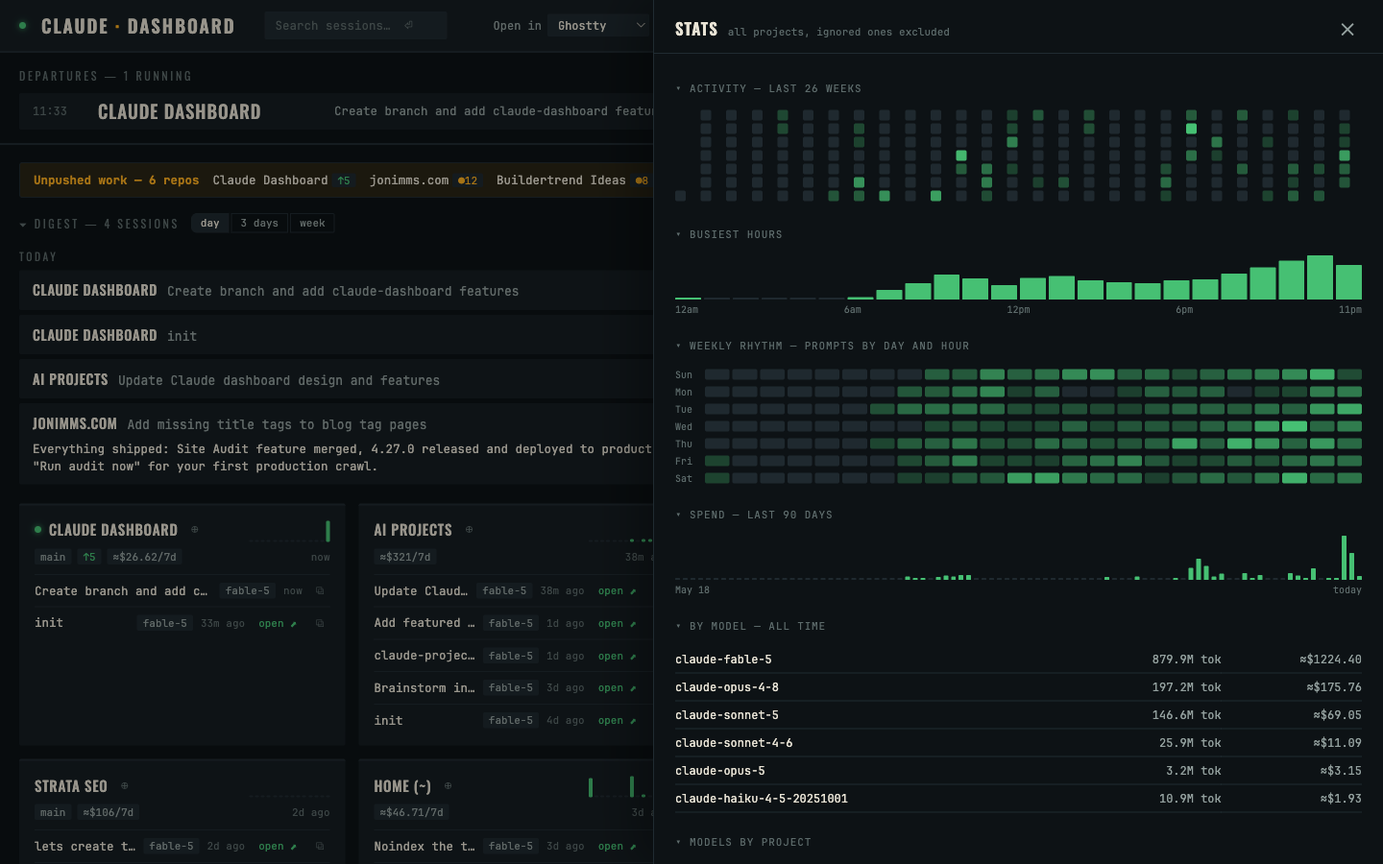
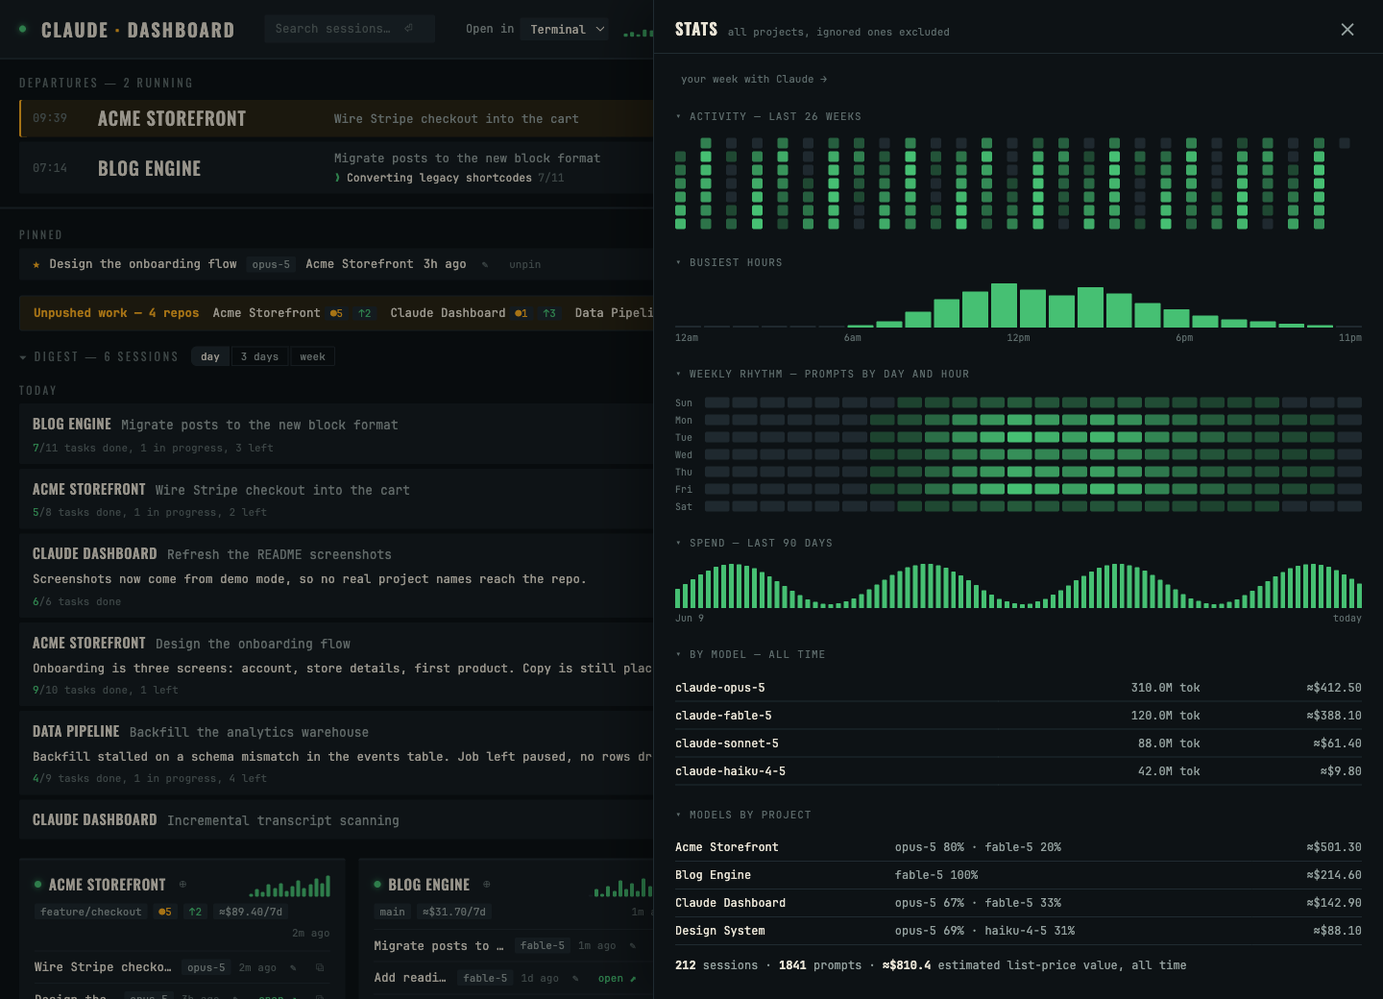
Refresh README screenshots (demo-mode data) and document the current feature set

diff --git a/lib/demo.js b/lib/demo.js
@@ -2,6 +2,8 @@
 // CLAUDE_DASH_DEMO=1: serve believable fake data instead of reading ~/.claude.
 // For screenshots, demos, and trying the dashboard without any Claude history.
 // Times are computed relative to now on every call so the board looks alive.
+// Every project here is invented — the README screenshots are generated from
+// this file so they never leak a real project name.
 
 const MIN = 60000;
 const HOUR = 3600000;
@@ -11,17 +13,41 @@ const S1 = 'demo1111-1111-4111-8111-111111111111';
 const S2 = 'demo2222-2222-4222-8222-222222222222';
 const S3 = 'demo3333-3333-4333-8333-333333333333';
 
+let seq = 0;
+const sid = () => `demo${String(++seq).padStart(4, '0')}-0000-4000-8000-000000000000`;
+
+// One session row as it appears on a project card and in the digest.
+function sess(now, o) {
+  return {
+    sessionId: o.id || sid(),
+    estCost: o.cost,
+    model: o.model,
+    title: o.title,
+    titleSource: 'ai',
+    lastPrompt: o.prompt || o.title,
+    awaySummary: o.summary || null,
+    awaySummaryAt: o.summary ? now - o.ago : null,
+    tasksSummary: o.tasks || null,
+    startedAt: now - o.ago - (o.ran || 40 * MIN),
+    lastActivityAt: now - o.ago,
+    worktree: o.worktree || null,
+    resumeCommand: 'claude --resume demo',
+  };
+}
+
 function demoState() {
+  seq = 0;
   const now = Date.now();
-  const mk = (name, path, ago, git, spark, spend) => ({
+  const mk = (name, path, ago, git, spark, spend, sessions) => ({
     path,
     name,
     lastActivityAt: now - ago,
     isLive: ago < 5 * MIN,
     git,
     spend7d: spend,
-    activity: { counts: spark },
-    sessions: [],
+    activity: { days: 14, counts: spark },
+    sessions,
+    stats: { sessionCount: sessions.length, promptCount: sessions.length * 11, lastCost: null },
   });
   return {
     generatedAt: now,
@@ -59,16 +85,72 @@ function demoState() {
     projects: [
       mk('Acme Storefront', '/demo/acme-storefront', 2 * MIN,
         { isRepo: true, branch: 'feature/checkout', dirty: 4, untracked: 1, ahead: 2, behind: 0 },
-        [2, 5, 3, 8, 6, 9, 4, 7, 11, 6, 8, 12, 9, 14], 89.4),
+        [2, 5, 3, 8, 6, 9, 4, 7, 11, 6, 8, 12, 9, 14], 89.4, [
+          sess(now, { id: S1, ago: 2 * MIN, cost: 24.6, model: 'claude-opus-5', title: 'Wire Stripe checkout into the cart',
+            tasks: { completed: 5, inProgress: 1, pending: 2 } }),
+          sess(now, { id: S3, ago: 3 * HOUR, cost: 18.2, model: 'claude-opus-5', title: 'Design the onboarding flow',
+            summary: 'Onboarding is three screens: account, store details, first product. Copy is still placeholder.',
+            tasks: { completed: 9, inProgress: 0, pending: 1 } }),
+          sess(now, { ago: 30 * HOUR, cost: 11.05, model: 'claude-fable-5', title: 'Cart totals rounding bug' }),
+          sess(now, { ago: 26 * HOUR, cost: 31.4, model: 'claude-opus-5', title: 'Split the product page into blocks' }),
+          sess(now, { ago: 3 * DAY, cost: 4.12, model: 'claude-haiku-4-5', title: 'Bump dependencies and re-run the suite' }),
+        ]),
       mk('Blog Engine', '/demo/blog-engine', 1 * MIN,
         { isRepo: true, branch: 'main', dirty: 0, untracked: 0, ahead: 0, behind: 0 },
-        [0, 3, 1, 4, 2, 6, 3, 5, 2, 7, 4, 6, 8, 5], 31.7),
+        [0, 3, 1, 4, 2, 6, 3, 5, 2, 7, 4, 6, 8, 5], 31.7, [
+          sess(now, { id: S2, ago: 1 * MIN, cost: 12.85, model: 'claude-fable-5', title: 'Migrate posts to the new block format',
+            tasks: { completed: 7, inProgress: 1, pending: 3 } }),
+          sess(now, { ago: 28 * HOUR, cost: 6.4, model: 'claude-fable-5', title: 'Add reading time to post templates',
+            summary: 'Reading time ships as a template part, cached with the post. Tests cover the empty-post case.' }),
+          sess(now, { ago: 2 * DAY, cost: 8.9, model: 'claude-sonnet-5', title: 'Fix the RSS feed date format', worktree: 'rss-fix' }),
+          sess(now, { ago: 4 * DAY, cost: 3.55, model: 'claude-haiku-4-5', title: 'Tidy the editor stylesheet' }),
+        ]),
+      mk('Claude Dashboard', '/demo/claude-dashboard', 38 * MIN,
+        { isRepo: true, branch: 'main', dirty: 1, untracked: 0, ahead: 3, behind: 0 },
+        [1, 4, 2, 6, 5, 3, 7, 9, 4, 8, 6, 10, 7, 9], 42.6, [
+          sess(now, { ago: 38 * MIN, cost: 14.2, model: 'claude-opus-5', title: 'Refresh the README screenshots',
+            summary: 'Screenshots now come from demo mode, so no real project names reach the repo.',
+            tasks: { completed: 6, inProgress: 0, pending: 0 } }),
+          sess(now, { ago: 6 * HOUR, cost: 9.8, model: 'claude-fable-5', title: 'Incremental transcript scanning' }),
+          sess(now, { ago: 2 * DAY, cost: 18.6, model: 'claude-opus-5', title: 'Add the command palette' }),
+        ]),
       mk('Data Pipeline', '/demo/data-pipeline', 5 * HOUR,
         { isRepo: true, branch: 'main', dirty: 2, untracked: 0, ahead: 1, behind: 0 },
-        [1, 0, 2, 1, 3, 0, 2, 4, 1, 3, 2, 0, 5, 2], 18.2),
+        [1, 0, 2, 1, 3, 0, 2, 4, 1, 3, 2, 0, 5, 2], 18.2, [
+          sess(now, { ago: 5 * HOUR, cost: 9.15, model: 'claude-opus-5', title: 'Backfill the analytics warehouse',
+            summary: 'Backfill stalled on a schema mismatch in the events table. Job left paused, no rows dropped.',
+            tasks: { completed: 4, inProgress: 1, pending: 4 } }),
+          sess(now, { ago: 30 * HOUR, cost: 5.7, model: 'claude-sonnet-5', title: 'Retry logic for the nightly job' }),
+          sess(now, { ago: 5 * DAY, cost: 3.35, model: 'claude-haiku-4-5', title: 'Document the ingest schema' }),
+        ]),
+      mk('Design System', '/demo/design-system', 27 * HOUR,
+        { isRepo: true, branch: 'tokens', dirty: 0, untracked: 3, ahead: 0, behind: 1 },
+        [3, 2, 4, 1, 5, 2, 3, 6, 2, 4, 3, 5, 1, 4], 26.9, [
+          sess(now, { ago: 27 * HOUR, cost: 16.4, model: 'claude-opus-5', title: 'Colour tokens for dark mode' }),
+          sess(now, { ago: 4 * DAY, cost: 10.5, model: 'claude-fable-5', title: 'Rewrite the button component docs' }),
+        ]),
+      mk('Internal Tools', '/demo/internal-tools', 2 * DAY,
+        { isRepo: true, branch: 'main', dirty: 0, untracked: 0, ahead: 0, behind: 0 },
+        [0, 1, 0, 2, 1, 0, 3, 1, 0, 2, 1, 1, 0, 2], 12.4, [
+          sess(now, { ago: 2 * DAY, cost: 7.2, model: 'claude-sonnet-5', title: 'Rota export as CSV' }),
+          sess(now, { ago: 6 * DAY, cost: 5.2, model: 'claude-haiku-4-5', title: 'Fix the login redirect loop' }),
+        ]),
+      mk('Marketing Site', '/demo/marketing-site', 4 * DAY,
+        { isRepo: true, branch: 'main', dirty: 0, untracked: 0, ahead: 0, behind: 0 },
+        [2, 0, 1, 0, 3, 1, 0, 0, 2, 1, 0, 1, 0, 0], 9.6, [
+          sess(now, { ago: 4 * DAY, cost: 6.1, model: 'claude-fable-5', title: 'Rebuild the pricing page' }),
+          sess(now, { ago: 8 * DAY, cost: 3.5, model: 'claude-haiku-4-5', title: 'Compress the hero images' }),
+        ]),
       mk('Dotfiles', '/demo/dotfiles', 3 * DAY,
         { isRepo: true, branch: 'main', dirty: 0, untracked: 0, ahead: 0, behind: 0 },
-        [0, 0, 1, 0, 0, 2, 0, 1, 0, 0, 1, 0, 0, 1], 2.1),
+        [0, 0, 1, 0, 0, 2, 0, 1, 0, 0, 1, 0, 0, 1], 2.1, [
+          sess(now, { ago: 3 * DAY, cost: 2.1, model: 'claude-haiku-4-5', title: 'Move shell aliases into a module' }),
+        ]),
+      mk('Legacy Importer', '/demo/legacy-importer', 96 * DAY,
+        { isRepo: true, branch: 'main', dirty: 0, untracked: 0, ahead: 0, behind: 0 },
+        [0, 0, 0, 0, 0, 0, 0, 0, 0, 0, 0, 0, 0, 0], 0, [
+          sess(now, { ago: 96 * DAY, cost: 4.4, model: 'claude-sonnet-5', title: 'One-off CSV import for the old CRM' }),
+        ]),
     ],
     errors: [],
   };
@@ -105,7 +187,9 @@ function demoStats() {
       sessions: 18, prompts: 84, cost: 143.2,
       projects: [
         { name: 'Acme Storefront', cost: 89.4 },
+        { name: 'Claude Dashboard', cost: 42.6 },
         { name: 'Blog Engine', cost: 31.7 },
+        { name: 'Design System', cost: 26.9 },
         { name: 'Data Pipeline', cost: 18.2 },
       ],
       models: ['claude-opus-5', 'claude-fable-5', 'claude-haiku-4-5'],
@@ -115,34 +199,67 @@ function demoStats() {
     byModel: {
       'claude-opus-5': { tokens: 310e6, cost: 412.5 },
       'claude-fable-5': { tokens: 120e6, cost: 388.1 },
+      'claude-sonnet-5': { tokens: 88e6, cost: 61.4 },
       'claude-haiku-4-5': { tokens: 42e6, cost: 9.8 },
     },
     perProject: [
       { name: 'Acme Storefront', total: 501.3, models: { 'claude-opus-5': 402.2, 'claude-fable-5': 99.1 } },
       { name: 'Blog Engine', total: 214.6, models: { 'claude-fable-5': 214.6 } },
+      { name: 'Claude Dashboard', total: 142.9, models: { 'claude-opus-5': 96.4, 'claude-fable-5': 46.5 } },
+      { name: 'Design System', total: 88.1, models: { 'claude-opus-5': 61.2, 'claude-haiku-4-5': 26.9 } },
     ],
     totals: { sessions: 212, prompts: 1841, cost: 810.4 },
   };
 }
 
-function demoSession() {
+// `after` mirrors the live-follow poll: once the viewer has the canned
+// transcript there is nothing new, so return an empty tail instead of
+// re-sending every event.
+function demoSession(id, after) {
   const now = Date.now();
+  if (id === S2) return blogSession(now, after);
   return {
     sessionId: S1,
     title: 'Wire Stripe checkout into the cart',
     projectName: 'Acme Storefront',
     truncatedTurns: 0,
-    nextOffset: 0,
-    events: [
+    nextOffset: 1,
+    events: after ? [] : [
       { kind: 'user', ts: now - 47 * MIN, text: 'Add Stripe checkout to the cart page. Keep the guest flow working.' },
-      { kind: 'assistant', ts: now - 46 * MIN, text: "I'll start with the payment intent endpoint, then wire the cart button to it." },
+      { kind: 'assistant', ts: now - 46 * MIN, text: "I'll start with the payment intent endpoint, then wire the cart button to it.\n\nPlan:\n\n1. `POST /api/checkout` creating the intent server-side\n2. Cart button calls it and redirects to the hosted page\n3. Webhook marks the order paid\n\nGuest carts already carry a session id, so nothing changes for signed-out users." },
       { kind: 'tool', ts: now - 45 * MIN, name: 'Read', input: 'src/cart/CartPage.tsx' },
+      { kind: 'tool', ts: now - 45 * MIN, name: 'Grep', input: 'createPaymentIntent' },
       { kind: 'tool', ts: now - 44 * MIN, name: 'Edit', input: 'src/api/checkout.ts' },
-      { kind: 'assistant', ts: now - 40 * MIN, text: 'Endpoint is in with tests. The cart button now creates a payment intent and redirects.' },
+      { kind: 'tool', ts: now - 43 * MIN, name: 'Bash', input: 'npm test -- checkout' },
+      { kind: 'assistant', ts: now - 40 * MIN, text: 'Endpoint is in with tests. The cart button now creates a payment intent and redirects.\n\n```ts\nexport async function createCheckout(cart: Cart) {\n  const intent = await stripe.paymentIntents.create({\n    amount: totalInMinorUnits(cart),\n    currency: cart.currency,\n    metadata: { cartId: cart.id },\n  });\n  return intent.client_secret;\n}\n```\n\nAll 14 checkout tests pass.' },
+      { kind: 'note', ts: now - 39 * MIN, text: 'Checkout endpoint merged with tests. Guest flow untouched. Next: the wallet buttons.' },
       { kind: 'user', ts: now - 12 * MIN, text: 'Nice. What about Apple Pay?' },
-      { kind: 'assistant', ts: now - 5 * MIN, text: 'Two options: Stripe Payment Request Button (fastest) or a native integration. Which payment provider should checkout use for the wallet flow?' },
+      { kind: 'tool', ts: now - 11 * MIN, name: 'Read', input: 'src/cart/PaymentButtons.tsx' },
+      { kind: 'assistant', ts: now - 5 * MIN, text: 'Two options: Stripe Payment Request Button (fastest — one component, handles Apple Pay and Google Pay together) or a native integration per wallet.\n\nThe Payment Request Button reuses the intent we already create, so it is roughly an afternoon. Native gets you more control over the sheet and costs a week.\n\nWhich payment provider should checkout use for the wallet flow?' },
+    ],
+  };
+}
+
+function blogSession(now, after) {
+  return {
+    sessionId: S2,
+    title: 'Migrate posts to the new block format',
+    projectName: 'Blog Engine',
+    truncatedTurns: 0,
+    nextOffset: 1,
+    events: after ? [] : [
+      { kind: 'user', ts: now - 3 * HOUR, text: 'Convert the legacy shortcodes in old posts to real blocks. Do it post by post so we can stop halfway.' },
+      { kind: 'assistant', ts: now - 3 * HOUR + 2 * MIN, text: 'Starting with an inventory of which shortcodes actually appear, then a converter per shortcode. Nothing is written until a post round-trips cleanly.' },
+      { kind: 'tool', ts: now - 2 * HOUR - 50 * MIN, name: 'Grep', input: '\\[[a-z_]+' },
+      { kind: 'tool', ts: now - 2 * HOUR - 44 * MIN, name: 'Write', input: 'scripts/convert-shortcodes.mjs' },
+      { kind: 'assistant', ts: now - 2 * HOUR - 10 * MIN, text: 'Six shortcodes cover 94% of posts: `gallery`, `caption`, `pullquote`, `embed`, `code`, `columns`. The long tail is 11 posts I will flag rather than guess at.' },
+      { kind: 'tool', ts: now - 90 * MIN, name: 'Bash', input: 'node scripts/convert-shortcodes.mjs --dry-run' },
+      { kind: 'assistant', ts: now - 80 * MIN, text: 'Dry run over 412 posts: 401 convert cleanly, 11 need a look. Writing the converted content now, one post per transaction.' },
+      { kind: 'note', ts: now - 40 * MIN, text: 'Converter written and dry-run clean. Applying to posts in batches of 25.' },
+      { kind: 'tool', ts: now - 4 * MIN, name: 'Bash', input: 'node scripts/convert-shortcodes.mjs --apply --batch 25' },
     ],
   };
 }
 
 module.exports = { demoState, demoStats, demoSession };
+

diff --git a/server.js b/server.js
@@ -106,7 +106,10 @@ const server = http.createServer((req, res) => {
     if (url === '/api/state') return json(res, 200, demoState());
     if (url === '/api/health') return json(res, 200, { ok: true, demo: true, version: VERSION });
     if (url === '/api/stats') return json(res, 200, demoStats());
-    if (url === '/api/session') return json(res, 200, demoSession());
+    if (url === '/api/session') {
+      const q = new URL(req.url, 'http://localhost').searchParams;
+      return json(res, 200, demoSession(q.get('id'), q.get('after')));
+    }
     if (url === '/api/search') return json(res, 200, { q: '', prompts: [], titles: [], transcripts: null });
     if (url === '/api/project') {
       return json(res, 200, {

diff --git a/README.md b/README.md
@@ -2,11 +2,13 @@
 
 A local, zero-dependency dashboard for all your [Claude Code](https://claude.com/claude-code) projects. Live sessions pinned at the top — including whether one is waiting on your input — with a card per project below: recent sessions, git status, a 14-day activity sparkline, and one-click resume commands.
 
-Everything is read from local files under `~/.claude`, and it never writes to Claude's data — read-only. No API keys to configure. The only automatic network call is to Anthropic's own usage API for your quota meters, authenticated with the Keychain credentials Claude Code already holds (kept in memory, toggleable in settings). Plain Node.js (which Claude Code already requires), zero npm dependencies, macOS.
+Everything is read from local files under `~/.claude`, and it never writes to Claude's data — read-only. No API keys to configure. The only automatic network call is to Anthropic's own usage API for your quota meters, authenticated with the Keychain credentials Claude Code already holds (kept in memory, toggleable in settings). Plain Node.js (which Claude Code already requires), zero npm dependencies. macOS first, Linux supported, Windows experimental.
 
 **Requirements:** macOS or Linux (or Windows, experimental — see below), Node.js ≥ 18, Claude Code.
 
-![Claude Dashboard, dark mode — live sessions, unpushed-work strip, and the daily digest](docs/screenshots/dashboard-dark.png)
+![Claude Dashboard, dark mode — live sessions, the pinned strip, unpushed work, and today's digest](docs/screenshots/dashboard-dark.png)
+
+*Every screenshot here is demo data (`CLAUDE_DASH_DEMO=1`) — the projects are invented.*
 
 ## Try it in one command
 
@@ -74,15 +76,23 @@ If something looks off, the log is at `~/Library/Logs/claude-dashboard.log`. To 
 ## What you're looking at
 
 - **Departures** — every live `claude` CLI session as a row on the board: start time, project, current task, model, elapsed time, and a split-flap status cell. The cell flips to an amber **needs you** when a session is waiting on your input — readable from across the room.
+- **Mission Control** — the `▦` button in the header (or `⌘K` → Mission Control) tiles every live session side by side, each pane following its own transcript. One screen for "what is everything doing right now".
+- **Pinned** — `☆ pin` on any transcript sticks that session to a strip under the departures board, so the thing you care about stays in view whether it's running or not.
 - **Digest** — what happened across every project, grouped by day. Each entry shows the session's recap (Claude's own "away summary" where one exists — click to expand), how many tasks it completed, and an open button. Switch the window between day / 3 days / week; collapses out of the way and remembers your choice.
 - **Project cards** — sorted by last activity. Branch chip, `●n` uncommitted changes, `↑n` unpushed commits. The sparkline is prompts per day for the last two weeks. Each session row has an `open ⬈` button that resumes the session in your terminal (new window, right directory) or imports it into the Claude desktop app when it's installed — the **Open in** selector in the header names whichever terminal you've configured (auto-detected on first run). The `⧉` button copies the `claude --resume` command instead.
-- **Header meters** — your plan and rate-limit tier (Free/Pro/Max/Enterprise/API, detected from Claude Code's local account cache), live session and weekly usage from Anthropic's usage API via your existing Claude Code sign-in, plus extra-usage spend. First run may show one macOS Keychain prompt — click Always Allow.
-![Transcript viewer live-following a running session — this one shows the session that built the dashboard](docs/screenshots/transcript.png)
+- **Header meters** — your plan and rate-limit tier (Free/Pro/Max/Enterprise/API, detected from Claude Code's local account cache), live session and weekly usage from Anthropic's usage API via your existing Claude Code sign-in, plus extra-usage spend. Set a **weekly budget** in settings and a third meter tracks estimated spend against it, with one alert each at 75 / 90 / 100%. First run may show one macOS Keychain prompt — click Always Allow.
+
+![Mission Control — every live session tiled side by side, each pane following its own transcript](docs/screenshots/mission-control.png)
+
+![Transcript viewer live-following a running session — prompts, replies as markdown, tool calls as one-liners](docs/screenshots/transcript.png)
 
 - **Transcripts** — click any session title (cards, digest, search results, project drawer) to read the conversation: your prompts, Claude's replies rendered as markdown, tool calls as compact one-liners, and away-summaries highlighted. Long sessions show the newest ~1200 events. **Running sessions follow live** — a `● live` badge appears, new turns stream in every few seconds, and the view sticks to the bottom unless you've scrolled up to read.
-- **Search** — the header box searches every prompt you've ever sent plus all session titles (Enter to run, 2+ characters). Narrow with `project:name` or `since:7d` / `since:2026-08-01`. Clicking a prompt result opens the transcript scrolled to the matching turn.
+- **Search** — the header box searches every prompt you've ever sent plus all session titles (Enter to run, 2+ characters). Narrow with `project:name` or `since:7d` / `since:2026-08-01`. Clicking a prompt result opens the transcript scrolled to the matching turn. If the answer isn't in a prompt, **search inside full transcripts** runs the same query across the conversation bodies — slower, so it's a second click rather than the default.
 - **Command palette** — `⌘K` from anywhere: fuzzy-jump to any project or session, watch a live session, start a new one, open settings or stats. Arrow keys + Enter.
 - **Stats** — click the weekly bar chart in the header: a 26-week activity heatmap, your busiest hours, a weekly-rhythm grid (prompts by day of week and hour), estimated spend per day for the last 90 days, and an all-time per-model token/cost breakdown. The daily spend history is computed from your existing transcripts, so it's full from the first run.
+- **Your week with Claude** — a 7-day report (`⌘K`, or the button at the top of stats): sessions, prompts, estimated spend against your budget, busiest day and hour, models used, and how long you typically take to answer a question. Exports as markdown.
+- **Day timeline** — `⌘K` → Day timeline: the last 24 hours as one lane per project, with amber ticks where a session needed you.
+- **Catch-up** — the `🔔` in the header keeps every notification the server has fired since it started, with an unread count. Useful after a morning away from the desk.
 - **Export** — any transcript downloads as clean markdown via the `export ⇩` button.
 - **New session** — the `⊕` button on a project card opens a fresh terminal window in that project running `claude`.
 - **Cost trend** — the small bar chart in the header is estimated cost per week for the last 8 weeks (hover for numbers). Costs include subagent tokens.
@@ -90,7 +100,8 @@ If something looks off, the log is at `~/Library/Logs/claude-dashboard.log`. To 
 - **Claude.ai chats** — import the official export from claude.ai (Settings → Privacy → Export data, then feed `conversations.json` to ⚙ settings here) and your chats become browsable (`⌘K` → Claude.ai chats) and full-text searchable next to your coding sessions. Stored slimmed in your local config dir, gitignored, never uploaded anywhere.
 
 ![Stats view: activity heatmap, busiest hours, weekly rhythm, 90-day spend, and per-model cost breakdowns](docs/screenshots/stats.png)
-- **Project details** — click any project's name for a slide-over with its full session list, rendered CLAUDE.md, per-project memory files, skills/agents/commands from `.claude/`, and settings (permissions, MCP servers, allowed tools). Read-only; also a quick audit of which projects are missing instructions or memory. Esc closes.
+
+- **Project details** — click any project's name for a slide-over with its full session list, recent git commits, rendered CLAUDE.md, per-project memory files, skills/agents/commands from `.claude/`, and settings (permissions, MCP servers, allowed tools). Read-only; also a quick audit of which projects are missing instructions or memory. Esc closes.
 - **Unpushed work strip** — an amber band listing every repo with uncommitted changes (`●n`) or unpushed commits (`↑n`), sorted by recent activity. Disappears when everything's clean.
 - **Dormant** — projects with no activity for 60+ days, tucked away at the bottom.
 - Worktree sessions (`.claude/worktrees/…`) are folded into their parent project and badged `⎇`.
@@ -112,8 +123,12 @@ The ⚙ gear in the header opens settings — no JSON editing required:
 
 - **Notifications** on/off (writes `config.json`); per-project mute lives on each project's slide-over
 - **Terminal** for open/new-session buttons: Ghostty, iTerm2, or Terminal.app, auto-detected (`config.json`)
-- **Rename any project** (writes `names.json`) or **hide it** and its whole subtree (writes `ignore.json`), with an unhide list below
+- **Claude desktop app**: lets `open ⬈` hand a session to the Claude app instead of a terminal
+- **Usage meters** on/off — this is the switch for the one automatic network call
 - **Theme**: Departures board (follows system light/dark), Phosphor, Amber CRT, Midnight, or Newsprint (`config.json`)
+- **Weekly budget** in dollars — drives the header meter and the 75 / 90 / 100% alerts; `0` turns it off
+- **Rename any project** (writes `names.json`) or **hide it** and its whole subtree (writes `ignore.json`), with an unhide list below
+- **Claude.ai chats**: pick the `conversations.json` from your claude.ai export to make those chats searchable here
 - **Updates**: "check for updates" asks GitHub only when you click; when a new release is out, **update now** pulls it in place (git or npm installs) and service installs restart themselves on the new version
 
 Everything saves instantly; the underlying files stay hand-editable. Keyboard: `⌘K` for the palette, `/` for search, `Esc` closes anything.
@@ -147,6 +162,7 @@ Edit `ignore.json` — an array of absolute path prefixes. A project is hidden i
 | `CLAUDE_DASH_NOTIFY` | unset | `0` = disable macOS notifications |
 | `CLAUDE_DASH_HOST` | `127.0.0.1` | Bind address — see below before changing |
 | `CLAUDE_DASH_DEMO` | unset | `1` = serve believable fake data (screenshots, trying it without Claude history) |
+| `CLAUDE_DASH_OPEN` | unset | `1` = open the browser on startup (what `npx` sets for you) |
 | `CLAUDE_DASH_CONFIG_DIR` | repo dir | Where config.json/names.json/ignore.json live (auto-falls back to `~/.config/claude-dashboard`) |
 
 The server binds to `127.0.0.1` only by default.
@@ -172,6 +188,14 @@ The recommended path is [Tailscale](https://tailscale.com): install it on the Ma
 - Logs: `~/Library/Logs/claude-dashboard.log`
 - Restart after pulling changes: `launchctl kickstart -k gui/$(id -u)/com.claude-dashboard`
 - Tests: `node --test test/pure-logic.test.js`
+
+## Demo mode
+
+```bash
+CLAUDE_DASH_DEMO=1 node server.js
+```
+
+Every `/api/*` route serves invented data from `lib/demo.js` instead of reading `~/.claude` — two live sessions, a handful of projects, a full transcript. Nothing touches your own history, so it's the safe way to try the UI, record a walkthrough, or take screenshots. Every image in this README comes from it. Edit `lib/demo.js` if you want different fixtures.
 
 ## Data sources
 
